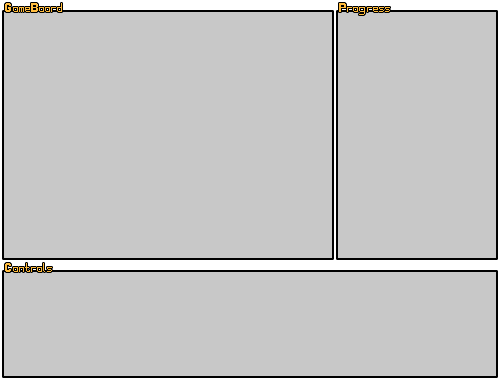
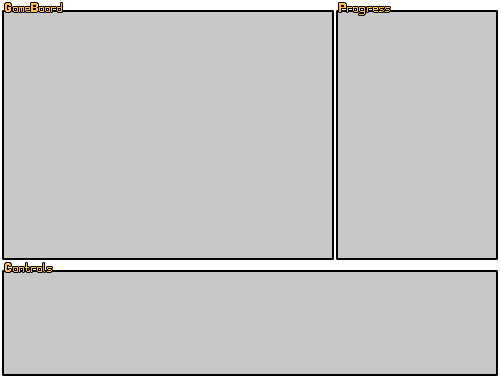
sizes!

Changed region(s): [[0.0, 0.9842, 1.0, 1.0]]

diff --git a/src/main/java/edu/chl/roborally/TestGameView.java b/src/main/java/edu/chl/roborally/TestGameView.java
@@ -28,7 +28,7 @@ public class TestGameView {
         //GameView test = new GameView(model);
         frame.setDefaultCloseOperation(WindowConstants.EXIT_ON_CLOSE);
         frame.setSize(1000, 760);
-        frame.setResizable(true);
+        frame.setResizable(false);
         frame.setLayout(new BorderLayout());
         frame.add(main);
         //frame.add(test);

diff --git a/src/main/java/edu/chl/roborally/view/gui/GamePanel.java b/src/main/java/edu/chl/roborally/view/gui/GamePanel.java
@@ -30,8 +30,7 @@ public class GamePanel extends JPanel {
         add(gameView);
         gameView.setLocation(8, 24);
         add(cardView);
-        cardView.setLocation(6, 552);
-        System.out.println(this.getWidth() + " x " + this.getHeight());
+        cardView.setLocation(8, 552);
     }
 
     // Draw background
